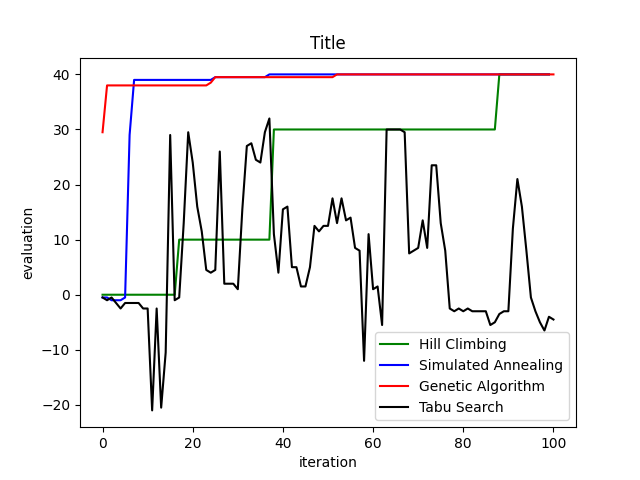
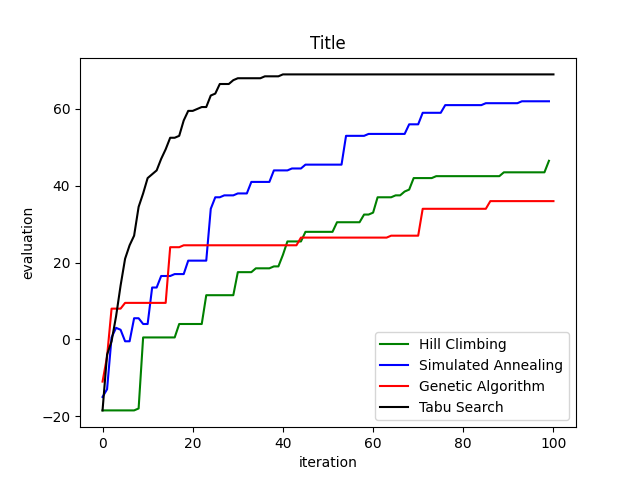
Several changes: elimination of some unused variables and comments, refinement of the check_requirements() function and tabu_search() function revamping.

diff --git a/Proj1/algorithms.py b/Proj1/algorithms.py
@@ -6,14 +6,14 @@ class Solution:
         self.team = team
         self.solution = []
         for _ in range (team.n_projects):
-            #self.solution.append([random.randint(0,1) for _ in range(team.n_members)])
-            self.solution.append([0 for _ in range(team.n_members)])
+            self.solution.append([random.randint(0,1) for _ in range(team.n_members)])
+            #self.solution.append([0 for _ in range(team.n_members)])
 
     def evaluate(self, solution):
         if len(solution) == 0:
             return 0
         
-        #print("NEIGHBOUR: ", solution)
+       # print("NEIGHBOUR: ", solution)
         #return (sum(solution[0]) + sum(solution[1]) + sum(solution[2]) + sum(solution[3]))
         
         project_timer = []
@@ -21,12 +21,8 @@ class Solution:
         for i in range(len(solution)):
             project_timer.append(0)
 
-        days = 0                # Number of days passed 
-        total_days = 1
         score = 0               # Score of the completed projects
-        completed_projects = 0  # Number of completed projects
         unfinished_projects = 0 # Number of unfinished projects
-        started_projects = 0    # Number of started projects
         solution_members = []   # Members that were chosen to test a given project requirements
         penalties = 0           # Score penalties
         
@@ -48,15 +44,10 @@ class Solution:
                     #print(project.name, "has not started yet.")
                     penalties += project.check_requirements(i, solution_members)
                     if project.has_started:
-                        #print(project.name, "has started in day: ", days)
-                        #print("-------------------------\n")
                         project_timer[i] += 1
-                        started_projects += 1
                         unfinished_projects += 1
-                        delta = 0
-                        total_days += project.duration
 
-                # If the project has started start the timers
+                # If the project has started increment the timers
                 else:
                     project_timer[i] += 1
                     # If the project's duration is over
@@ -66,7 +57,6 @@ class Solution:
                         project.has_started = False
                         score += project.score
                         unfinished_projects -= 1
-                        completed_projects += 1
 
                         #Unlocking members
                         for member in solution_members:
@@ -74,16 +64,11 @@ class Solution:
                                 member.reset()
             
             # If all projects get completed
-            if completed_projects == self.team.n_projects or unfinished_projects == 0:
+            if unfinished_projects == 0:
                 break
-            
-            days += 1
 
         self.team.reset()
-        #print("Score: ", completed_projects, "Penalties: ", penalties, " Days: ", days, "Total:", completed_projects/(days + penalties) * 100)
-        if total_days == 0:
-            return 0
-
+        #print("Score: ", score, "Penalties: ", penalties, "Total:", score - penalties)
         return score - penalties
 
     def neighbour1(self, solution):
@@ -140,14 +125,12 @@ class Solution:
         best_sol = []
         best_sol_eval = 0
 
-        #print(solution, " Score: ", self.evaluate(solution))
         while it < 100:
             it += 1
 
             neighbour = self.neighbour3(copy.deepcopy(solution))
             evaluation = self.evaluate(neighbour)
 
-           # print(neighbour, " Score: ", evaluation)
             if evaluation > self.evaluate(solution):
                 solution = neighbour
                 #it = 0
@@ -171,7 +154,6 @@ class Solution:
         T0 = 50
 
         while it < 100:
-
             T = self.T_schedule(T0, it, cooling_algorithm)
             neighbour = self.neighbour3(copy.deepcopy(solution))
             evaluation = self.evaluate(neighbour)
@@ -205,45 +187,66 @@ class Solution:
     def tabu_tenure(self):
         return 10
 
+    def tabu_neighbourhood(self, solution, tabus):
+        neighbourhood = []
+        for i in range(10):
+            neighbour = self.neighbour3(copy.deepcopy(solution))
+            while neighbour in neighbourhood:
+                neighbour = self.neighbour3(copy.deepcopy(solution))
+            
+            #If the generated neighbour is not in the tabu list, add it
+            if str(neighbour) not in tabus and neighbour not in neighbourhood:
+                neighbourhood.append(neighbour)
+
+        return neighbourhood
+            
+
     def tabu_search(self):
-        tabu_list = []
-        counters = []
+        tabus = {}
         ev = []
-        iteration = 0
-        neighbour_list = []
 
         solution = self.solution.copy()
-        neighbour = self.neighbour3(copy.deepcopy(solution))
-        best_sol = neighbour
+        best_sol = self.neighbour3(copy.deepcopy(solution))
+        candidate_solution = best_sol
         ev.append(self.evaluate(best_sol))
 
-        while iteration < 100:
-            neighbour = self.neighbour3(copy.deepcopy(neighbour))
-            evaluation = self.evaluate(neighbour)
-            ev.append(evaluation)
-
-            if evaluation > self.evaluate(best_sol):
-                best_sol = neighbour
-                
-            if neighbour not in tabu_list:
-                tabu_list.append(neighbour)
-                counters.append([neighbour.copy(), self.tabu_tenure()])
-
-            else:
-                k = 0
-                size = len(counters)
-                while k < size:
-                    counters[k][1] -= 1
-                    if counters[k][1] == 0:
-                        tabu_list.remove(counters[k][0])
-                        counters.remove(counters[k])
-                        size -= 1
-                k += 1
+        it = 0
+        while it < 100: 
+            # Generates a neighbourhood around the current best solution
+            neighbourhood = self.tabu_neighbourhood(best_sol, tabus)
             
-            iteration += 1
+            # Searches the neighbourhood for a better solution than the one so far
+            for temp_neighbour in neighbourhood:
+                evaluation = self.evaluate(temp_neighbour)
+                #print("Candidate: ", best_sol, evaluation, " Current: ", self.evaluate(best_sol))
+                if evaluation > self.evaluate(candidate_solution):
+                    candidate_solution = temp_neighbour
 
+            # Checks if the local optima is greater than the global one
+            evaluation = self.evaluate(candidate_solution)
+            ev.append(evaluation)
+            if evaluation > self.evaluate(best_sol):
+                best_sol = candidate_solution
+            
+            # Decrements the counters for each tabu
+            old_tabus = []
+            for sol in tabus:
+                tabus[str(sol)] -= 1
+                if tabus[str(sol)] == 0:
+                    old_tabus.append(str(sol))
+
+            # Removes the null tabus
+            for old in old_tabus:
+                del tabus[old]
+
+            old_tabus.clear()
+
+            # Adds the new best neighbour of the neighbourhood to the tabu list
+            tabus[str(candidate_solution)] = self.tabu_tenure()
+
+            it += 1
+            
         return best_sol, ev
-
 
     def genetic_algorithm(self, size_of_population, parents_algorithm, crossover_algortithm):
         ev = []

diff --git a/Proj1/formulation.py b/Proj1/formulation.py
@@ -63,24 +63,24 @@ class Project:
             needed_skills.append(role.name)
 
         for member in solution_members:
-            if member.on_project:
-                continue
-            
             member_skills_matched = 0
             for role in range(self.n_roles):
                 if self.roles[role].name not in needed_skills:
                     continue
                 
                 if member.hasSkill(self.roles[role]):
+                    if member.on_project:
+                        continue
+                    
                     roles_matched += 1
                     member_skills_matched += 1
                     assigned_members.append(member)
                     needed_skills.remove(self.roles[role].name)
                     break
 
-            if(member_skills_matched == 0):
+            if member_skills_matched == 0:
                 penalties += 0.5
-       
+
         #If all the requirements match start the project, lock the matched members
         if roles_matched == self.n_roles:
             self.has_started = True

diff --git a/Proj1/main.py b/Proj1/main.py
@@ -35,16 +35,16 @@ if __name__ == "__main__":
     print("Random solution: ", sol.solution)
 
     sol1, hill_evals = sol.hill_climbing()
-    print("Best value with hill climbing was ", sol1)
+    print("Best value with hill climbing was ", sol1, " with ", max(hill_evals))
 
     sol2, annealing_evals = sol.simulated_annealing(cooling_algorithm)
-    print("Best value with simulated annealing was ", sol2)
+    print("Best value with simulated annealing was ", sol2, " with ", max(annealing_evals))
 
     sol3, genetic_evals = sol.genetic_algorithm(size_of_pop, parents_algorithm, crossover_algorithm)
-    print("Best value with genetic algorithm was ", sol3)
+    print("Best value with genetic algorithm was ", sol3, " with ", max(genetic_evals))
 
     sol4, tabu_evals = sol.tabu_search()
-    print("Best value with tabu search was ", sol4)
+    print("Best value with tabu search was ", sol4, " with ", max(tabu_evals))
 
     plt.plot(hill_evals, 'g', label='Hill Climbing')
     plt.plot(annealing_evals, 'b', label='Simulated Annealing')
